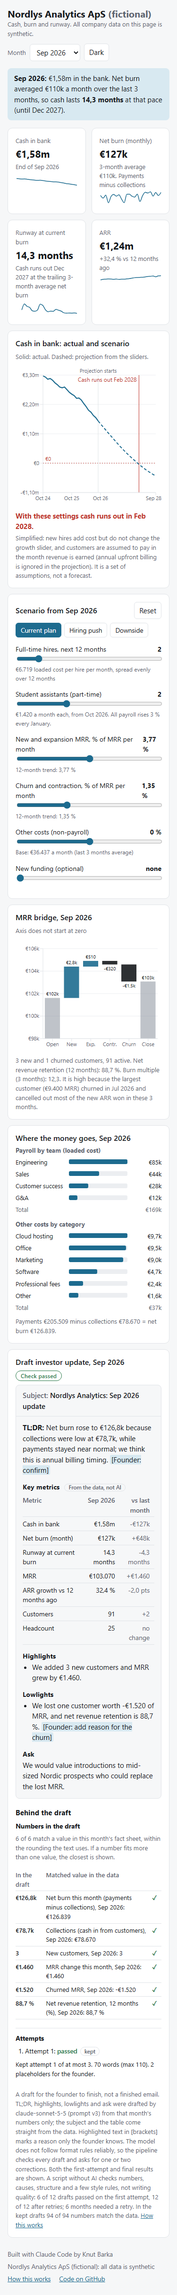
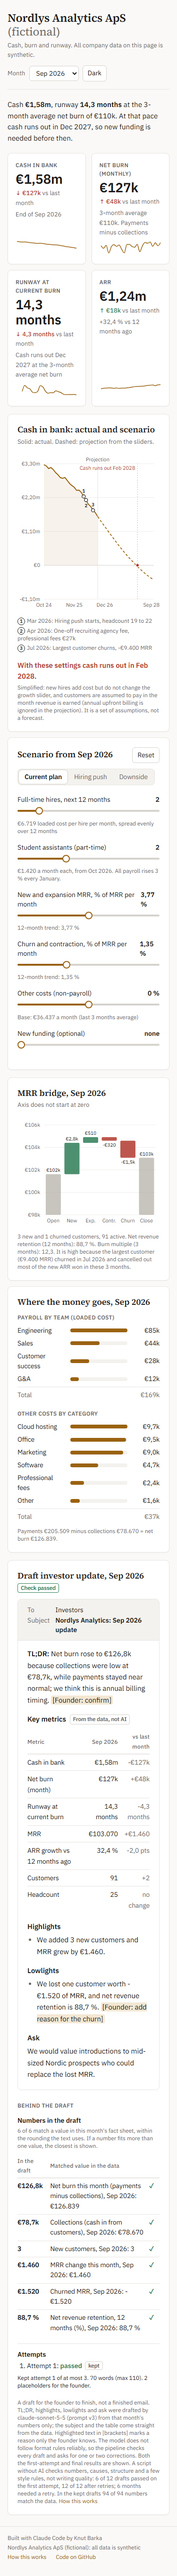
Redesign: fixes after visual check, kit README, before/after comparison, new checks, design rule in CLAUDE.md, decisions 109-121

Changed region(s): [[0.0293, 0.0, 0.968, 0.9971], [0.88, 0.779, 0.9093, 0.8102], [0.8507, 0.0935, 0.88, 0.1246]]

diff --git a/web/components/charts.tsx b/web/components/charts.tsx
@@ -29,7 +29,7 @@ export function CashChart({ actuals, projection, selected, zeroMonth, notes }: {
   const min = Math.min(0, ...projection.map((p) => p.cash));
 
   return (
-    <div style={{ height: 340 }}>
+    <div className="h-[320px] lg:h-[400px]">
       <ResponsiveContainer width="100%" height="100%">
         <ComposedChart data={rows} margin={{ top: 24, right: 12, bottom: 0, left: 0 }}>
           <CartesianGrid stroke="var(--grid)" vertical={false} />
@@ -79,8 +79,8 @@ export function CashChart({ actuals, projection, selected, zeroMonth, notes }: {
 
 // MRR bridge as a waterfall. Each bar is a range [from, to]. The axis does not start at zero,
 // otherwise the monthly movements (a few thousand euros) would be invisible next to ~€100k MRR.
+// Not animated: Recharts hides the value labels while bars animate, and they must always show.
 export function MrrBridge({ m }: { m: Month }) {
-  const animate = useAnimateOnce();
   const steps = [
     // Short names so the axis fits on a phone; the tooltip shows the full name.
     { name: "Open", full: "Opening MRR", value: m.opening_mrr, total: true },
@@ -120,7 +120,7 @@ export function MrrBridge({ m }: { m: Month }) {
               return <ChartTooltip title={`MRR bridge, ${monthLabel(m.month)}`} rows={[{ name: r.full, value: eur(r.value), color: colour(r) }]} />;
             }}
           />
-          <Bar dataKey="range" radius={2} maxBarSize={44} isAnimationActive={animate} animationDuration={ANIMATION_MS}>
+          <Bar dataKey="range" radius={2} maxBarSize={44} isAnimationActive={false}>
             {rows.map((r) => <Cell key={r.name} fill={colour(r)} fillOpacity={r.total ? 0.6 : 0.85} />)}
             <LabelList dataKey="value" position="top" formatter={(v) => (v === 0 ? "€0" : eurShort(Number(v)))}
                        style={{ fill: "var(--text)", fontSize: 10 }} />

diff --git a/web/components/Dashboard.tsx b/web/components/Dashboard.tsx
@@ -47,7 +47,7 @@ function Slider({ id, label, value, hint, min, max, step, current, onChange }: {
   return (
     <div className="mb-4">
       <label htmlFor={id} className="mb-1 flex justify-between gap-2 text-sm">
-        <span>{label}</span><strong className="font-semibold tabular-nums">{value}</strong>
+        <span>{label}</span><strong className="whitespace-nowrap font-semibold tabular-nums">{value}</strong>
       </label>
       <input id={id} type="range" min={min} max={max} step={step} value={current} onChange={onChange}
              style={{ "--fill": fill } as React.CSSProperties} />

diff --git a/web/styles/kit.css b/web/styles/kit.css
@@ -16,6 +16,7 @@ body {
 .t-label { font-size: 0.72rem; font-weight: 600; text-transform: uppercase; letter-spacing: 0.06em; color: var(--muted); }
 .t-kpi { font-size: 1.75rem; font-weight: 600; line-height: 1.15; letter-spacing: -0.01em; font-variant-numeric: tabular-nums; }
 .t-small { font-size: 0.82rem; }
+@media (max-width: 480px) { .t-kpi { font-size: 1.35rem; } .t-page { font-size: 1.3rem; } }
 
 a { color: var(--accent); text-underline-offset: 2px; }
 a:hover { text-decoration-thickness: 2px; }

diff --git a/docs/decisions.md b/docs/decisions.md
@@ -143,3 +143,19 @@ Every choice made during the unattended first build, as a list: what, why, and t
 106. **"Numbers in the draft" comes from the checker's own matching.** `check_numbers()` in `scripts/check_updates.py` takes an optional list and, for each number that matches, adds the fact it matched. When a number fits more than one fact within the rounding, the closest is recorded, and the card says so. The pass/fail logic, tolerances and skipped numbers are unchanged: `update_checks.csv` came out identical, 12 of 12 pass and 94 of 94 numbers match. The matches go to `data/check/update_number_matches.csv` (94 rows) and from there into the JSON. The period of each fact is read from its label ("previous month", "3 months earlier", "previous 12 months", "last 3 months"). Signs are ignored as in the check, so "-€1.520" in the Sep 2026 draft is shown against churned MRR of -€1.520. Alternative: a second matching function only for display, rejected because it could disagree with the check.
 107. **"Attempts" lists every row of `data/ai/update_attempts.csv` for the month** with pass or fail, the failed checks and a "kept" tag. Checked in headless Edge for Apr, Jul and Sep 2026 at 1280 and 375 px in light and dark: two columns at 1280, one at 375, no horizontal scroll, no console errors, and the number of ticks equals `numbers_matched` (7, 9, 6).
 108. **The key metrics table moved into the email**, between TL;DR and Highlights, where it would sit in a real investor update. It keeps its "From the data, not AI" tag. "Behind the draft" now holds only "Numbers in the draft" and "Attempts". Checked again for Apr, Jul and Sep 2026 at 1280 and 375 px in light and dark: two columns at 1280, one at 375, no horizontal scroll, no console errors.
+
+## Redesign (shared portfolio design system, P2 first)
+
+109. **New design rule replaces "precision over decoration"** (decided in chat with Knut, 05.11.2026): polished and smooth, clear hierarchy, soft transitions, nothing that hides or decorates the numbers, no typical "AI" look. Written into `CLAUDE.md` with the token file location.
+110. **Tokens in `web/styles/tokens.css`**, mapped into Tailwind 4 with `@theme inline` so the dark theme only swaps CSS variables. Base styles for controls and the type scale are in `web/styles/kit.css`. Alternative: keep plain CSS without Tailwind, rejected because the brief asks for Tailwind and the other two projects will share the kit.
+111. **Final colours and contrast** (WCAG, computed with the standard relative-luminance formula). Light: page `#FAF9F7`, cards `#FFFFFF`, borders `#E7E5E1`, text `#1C1B19` (16,4:1), secondary `#6B675F` (5,4:1), green `#2E7D57` (4,8:1), red `#B23A2E` (5,6:1). Dark: page `#141412`, cards `#1C1B19`, borders `#2C2A26`, text `#EDEBE7` (15,5:1), secondary `#A39E94` (6,9:1), green `#5BB98A` (7,7:1), red `#E27064` (5,9:1). **Accent (ochre): `#9A6210` light (4,8:1 on the page, 5,1:1 on cards), `#D9963A` dark (7,4:1 on the page, 6,9:1 on cards).** The suggested `#A86B12` gave only 4,2:1 on the page, below AA for text, so it was darkened. All pass 3:1 for chart lines. Ochre (hue about 35 degrees) is clearly apart from the green (about 150) and the brick red (about 5), and in charts the red only appears as the zero-cash marker and negative MRR bars.
+112. **shadcn-style primitives written as small local components, without Radix.** Card, Button (`.btn`), Badge (`.badge`) and the segmented control are a few lines each. The sliders and the month selector stay native `<input type="range">` and `<select>`, restyled with CSS: keyboard and screen readers work without extra code, and `scripts/screenshots.mjs` and `scripts/live_check.mjs` drive them by id. No Tabs or Tooltip primitive was needed (the page has no tabs; chart tooltips are Recharts). Alternative: shadcn/ui with Radix, rejected because it adds dependencies for no visible gain here.
+113. **Fonts: Source Serif 4 (headings) and IBM Plex Sans (text) through `next/font/google`**, downloaded at build time and served from the site.
+114. **Light is now the default theme.** Before, a visitor without a saved choice got their system setting. `?theme=` and the saved choice still win.
+115. **Story line under the header** is a template filled from the selected month (closing cash, runway, 3-month average net burn and zero-cash month), not AI. It only adds "so new funding is needed before then", which follows from the zero-cash month at that pace.
+116. **KPI change vs last month** is the difference between this month and the previous month of the exported values; green when it is favourable (cash, runway and ARR up, net burn down), red when not. Nothing is shown for the first month.
+117. **Cash chart annotations, picked from the exported data in `cashAnnotations()` (`web/lib/data.ts`):** (1) Mar 2026, the month with the largest headcount increase (19 to 22), the start of the hiring push; (2) Apr 2026, the month with the highest professional fees (€27k), the one-off recruiting agency fee; (3) Jul 2026, the month with the largest churned MRR (-€9.400), the largest customer leaving. The wording follows the planted story in `docs/data-spec.md` (items 1, 2 and 5). They are numbered dots with a key under the chart, because Mar and Apr are next to each other and full labels would overlap, especially at 375 px.
+118. **Motion:** controls fade in 150 ms, burn driver bars change width in 200 ms. Only the actual cash line animates, once on load (400 ms); the projection never animates, so the sliders feel instant. The MRR bridge is not animated because Recharts hides its value labels while bars animate. `prefers-reduced-motion` turns all of it off.
+119. **MRR bridge colours are now semantic:** new and expansion green, contraction and churn red, opening and closing grey. Before: accent and near-black.
+120. **Before/after screenshots** in `docs/screenshots/redesign/` (`*-before.png` from main before the redesign, `*-after.png`, and `*-compare.png` side by side, made once with Pillow). `node scripts/screenshots.mjs before|after` retakes one set. `screenshots.mjs` also checks now that there is no horizontal scroll at 375 px and that buttons have no transition under reduced motion.
+121. **The link preview image (`web/app/opengraph-image.png`) was not recropped**, so it still shows the old design.

diff --git a/web/components/kit/README.md b/web/components/kit/README.md
@@ -1,0 +1,34 @@
+# Portfolio kit
+
+Shared look for the three portfolio dashboards (P1 variance cockpit, P2 startup runway, P3 AML queue).
+
+## Files
+
+- `web/styles/tokens.css`: colours, fonts, radius and shadow as CSS variables, light and dark, mapped into Tailwind's theme (`bg-surface`, `text-muted`, `text-accent`, `border-border` and so on).
+- `web/styles/kit.css`: type scale (`t-page`, `t-section`, `t-label`, `t-kpi`, `t-small`), buttons (`btn`), select, range slider, segmented control, badge, focus ring, reduced motion.
+- `web/components/kit/`: `Card` (+ `CardHeader`), `KpiCard`, `Sparkline`, `ChartTooltip`, `SegmentedControl`, `ThemeToggle`, `PageHeader`, `useAnimateOnce`.
+
+## Copy into another repo
+
+1. Install Tailwind 4 in `web/`: `npm install -D --save-exact tailwindcss@4.3.3 @tailwindcss/postcss@4.3.3` (Recharts is needed for `Sparkline`).
+2. Copy `web/postcss.config.mjs`, `web/styles/` and `web/components/kit/`.
+3. Start `app/globals.css` with:
+   ```css
+   @import "tailwindcss";
+   @import "../styles/tokens.css";
+   @import "../styles/kit.css";
+   @custom-variant dark (&:where([data-theme="dark"], [data-theme="dark"] *));
+   ```
+4. In `app/layout.tsx`, load the fonts with `next/font/google` as variables `--font-source-serif` (Source Serif 4) and `--font-plex-sans` (IBM Plex Sans), put both on `<html>`, and copy the inline theme script that sets `data-theme` before the first paint.
+
+## Project accent
+
+Only `--accent`, `--accent-soft` and `--on-accent` change per project, in both the light and the dark block of `tokens.css`:
+
+| Project | Light `--accent` | Dark `--accent` |
+|---|---|---|
+| P1 Variance cockpit (petrol) | around #1F5F6B | lighter, check contrast |
+| P2 Startup runway (ochre) | #9A6210 | #D9963A |
+| P3 AML queue (deep olive) | around #5E6B2A | lighter, check contrast |
+
+Check the new accent for 4,5:1 against `--bg` and `--surface` (text) and 3:1 for chart lines, in both themes, and that it is clearly different from `--positive` (green) and `--negative` (red).

diff --git a/CLAUDE.md b/CLAUDE.md
@@ -17,6 +17,12 @@ Portfolio project: runway dashboard for **Nordlys Analytics ApS (fictional)**. A
 - Never push, create a GitHub remote or deploy unless Knut is at the keyboard and has said yes in that session.
 - Record every self-made choice in `docs/decisions.md` (what, why, alternative considered).
 
+## Design
+
+- Polished and smooth, with clear hierarchy and soft transitions, but nothing that hides or decorates the numbers. Smooth over flashy. No typical "AI" look: no blue, indigo, violet or purple accent, no gradient backgrounds, glassmorphism, glow, emoji, sparkle icons or marketing phrases.
+- Tokens live in `web/styles/tokens.css` (colours, fonts, radius), base styles in `web/styles/kit.css`, shared components in `web/components/kit/` (see its README). Use the tokens, never raw hex values in components. Red is reserved for risk and unfavourable changes.
+- Light theme by default, dark behind the toggle. Source Serif 4 for headings, IBM Plex Sans for text, tabular figures for numbers. Transitions 150 to 200 ms; charts animate once on load (max 400 ms); respect prefers-reduced-motion.
+
 ## Data flow (one place the numbers come from)
 
 1. `python scripts/generate.py` writes CSVs to `data/raw/` (fixed seed).
